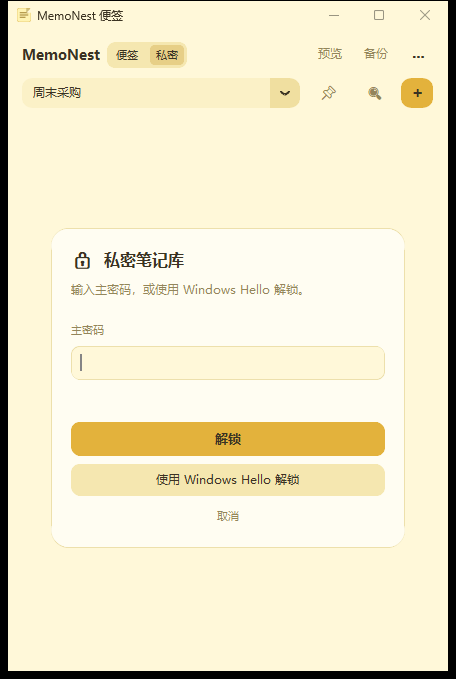
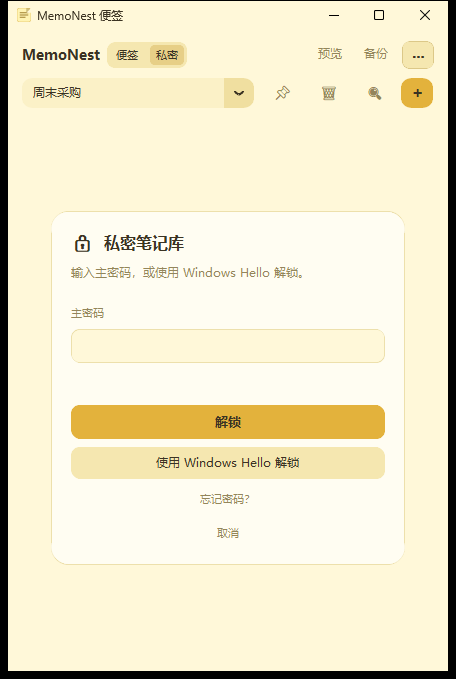
私密库退出即锁定，忘记密码可清空重建

diff --git a/app.py b/app.py
@@ -359,6 +359,21 @@ class MemoApp(ctk.CTk):
             )
             self._vault_hello_btn.pack(fill="x", pady=(8, 0))
 
+        self._vault_forgot_btn = None
+        if mode == "unlock" and self.vault is not None:
+            self._vault_forgot_btn = ctk.CTkButton(
+                inner,
+                text="忘记密码？",
+                height=26,
+                corner_radius=8,
+                fg_color="transparent",
+                hover_color=p["strip"],
+                text_color=p["muted"],
+                font=self.font_tiny,
+                command=self._vault_forgot,
+            )
+            self._vault_forgot_btn.pack(fill="x", pady=(8, 0))
+
         self._vault_cancel_btn = ctk.CTkButton(
             inner,
             text="取消",
@@ -380,6 +395,7 @@ class MemoApp(ctk.CTk):
         for widget in (
             getattr(self, "_vault_primary_btn", None),
             getattr(self, "_vault_hello_btn", None),
+            getattr(self, "_vault_forgot_btn", None),
             getattr(self, "_vault_cancel_btn", None),
         ):
             if widget is not None:
@@ -483,6 +499,42 @@ class MemoApp(ctk.CTk):
             return
         if self._vault_panel is not None:
             self._vault_finish(True)
+
+    def _vault_forgot(self) -> None:
+        """忘记主密码：清空私密库后重新创建（不可恢复）。"""
+        if self._vault_busy or self.vault is None:
+            return
+        if not self.ask_yes_no(
+            "忘记主密码",
+            "重置主密码会永久删除私密库里的全部便签和回收站内容，且无法恢复。\n\n"
+            "普通便签不受影响。确定继续吗？",
+            ok_text="删除并重置",
+        ):
+            return
+        try:
+            self.vault.reset()
+        except Exception as exc:  # pragma: no cover - 取决于文件权限
+            LOG.exception("重置私密笔记库失败")
+            self._vault_fail(f"重置失败：{exc}")
+            return
+        self.vault = None
+        self.vault_store = None
+        self._close_vault_panel()
+        if self.library == "vault":
+            self.store = self.plain_store
+            self.library = "notes"
+            self._after_library_switch()
+        else:
+            self._build_menu()
+        if self._trash_panel is not None:
+            self._trash_panel.reload()
+        self.cfg.set("general.hello_unlock", False)
+        try:
+            self.cfg.save()
+        except OSError:
+            LOG.exception("保存配置失败")
+        self.open_vault_panel("create")
+        self.set_status("私密笔记库已清空，请设置新的主密码")
 
     def _vault_finish(self, ok: bool) -> None:
         intent = self._vault_intent
@@ -604,6 +656,10 @@ class MemoApp(ctk.CTk):
         return True
 
     def _after_library_switch(self, select_id: str | None = None) -> None:
+        if self.library != "vault":
+            # 退出私密库即锁定：内存里的库密钥立刻丢弃，
+            # 下次切到「私密」必须重新输入主密码（或走 Hello）。
+            self._lock_vault_state()
         self.library_tabs.set("私密" if self.library == "vault" else "便签")
         self._build_menu()
         self._apply_library_style()
@@ -664,6 +720,12 @@ class MemoApp(ctk.CTk):
         self._after_library_switch(select_id=target.id)
         self.set_status("已移回普通便签库")
 
+    def _lock_vault_state(self) -> None:
+        """丢弃已解锁状态，不改变当前界面。"""
+        self.vault_store = None
+        if self.vault is not None:
+            self.vault.lock()
+
     def lock_vault(self) -> None:
         if self.vault is None or self._closing:
             return
@@ -676,8 +738,7 @@ class MemoApp(ctk.CTk):
                 LOG.exception("锁定前保存失败")
             self.store = self.plain_store
             self.library = "notes"
-        self.vault_store = None
-        self.vault.lock()
+        self._lock_vault_state()
         if switched:
             self._after_library_switch()
         self.set_status("私密笔记库已锁定")
@@ -1750,7 +1811,9 @@ class MemoApp(ctk.CTk):
 
     def show_help(self) -> None:
         tip = (
-            "· 顶栏「便签 / 私密」切换普通与私密库，Ctrl+L 锁定私密库\n"
+            "· 顶栏「便签 / 私密」切换普通与私密库，Ctrl+L 锁定\n"
+            "· 切回「便签」会立即锁定私密库，下次进入需重新解锁\n"
+            "· 忘记主密码可在解锁面板点「忘记密码？」重置（会清空私密库）\n"
             if self.vault is not None
             else "· 笔记文件位于 data/notes，可直接用其他编辑器编辑\n"
         )

diff --git a/tests/test_vault.py b/tests/test_vault.py
@@ -110,6 +110,25 @@ class VaultTests(unittest.TestCase):
         self.vault.unlock("newpassword")
         self.assertEqual(self.vault.key, first_key)
 
+    def test_reset_clears_vault_and_allows_recreate(self) -> None:
+        self.vault.create("password123")
+        store = VaultStore(self.vault)
+        store.create("保留下来的便签", "内容")
+        doomed = store.create("回收站目标", "待删")
+        store.delete(doomed.id)
+        self.assertTrue(any(self.vault.trash_dir.glob("*.mdenc")))
+
+        self.vault.reset()
+
+        self.assertFalse(self.vault.exists())
+        self.assertFalse(self.vault.unlocked)
+        self.assertEqual(list(self.vault.root.iterdir()), [])
+        # 重置后可以重新创建，旧密码不再有效
+        self.vault.create("newpassword")
+        fresh = VaultStore(self.vault)
+        self.assertEqual(fresh.all_notes(), [])
+        self.assertEqual(fresh.list_trash(), [])
+
     def test_store_crud_and_ciphertext(self) -> None:
         self.vault.create("password123")
         store = VaultStore(self.vault)

diff --git a/core/vault.py b/core/vault.py
@@ -121,6 +121,24 @@ class Vault:
     def lock(self) -> None:
         self.key = None
 
+    def reset(self) -> None:
+        """忘记主密码时彻底清空加密库。
+
+        删除 vault.json（含 Windows Hello 的 DPAPI 绑定）、全部加密笔记与
+        回收站文件，并丢弃内存中的库密钥。此操作不可恢复。
+        """
+        self.key = None
+        if not self.root.exists():
+            return
+        for child in list(self.root.iterdir()):
+            try:
+                if child.is_dir():
+                    shutil.rmtree(child, ignore_errors=True)
+                else:
+                    child.unlink()
+            except OSError:
+                LOG.warning("重置加密库时无法删除 %s", child)
+
     @property
     def unlocked(self) -> bool:
         return self.key is not None

diff --git a/README.md b/README.md
@@ -154,7 +154,8 @@ git push origin v1.0.0
 └────────────────────────────────────────────┘
 ```
 
-- **便签 / 私密**：顶栏分段按钮切换普通库与私密库；切到私密时才要求解锁
+- **便签 / 私密**：顶栏分段按钮切换普通库与私密库；切到私密时才要求解锁，
+  从私密切回「便签」会立即锁定
 - **📌 / 🗑 / 🔍 / +**：放在便签下拉框右侧——📌 置顶当前便签（再点取消），
   🗑 删除当前便签（进回收站），🔍 展开搜索（再点或 Esc 收起），`+` 新建
 - **预览 / 备份**：常用操作放在顶栏，一眼可见
@@ -180,7 +181,7 @@ git push origin v1.0.0
 | 窗口置顶 | 「设置 → 通用」勾选「窗口始终置顶」 |
 | 切到私密库 | 顶栏「私密」，输入主密码或 Windows Hello |
 | 移入 / 移出私密库 | `⋯` 菜单 → 移到私密笔记库 / 移回普通便签 |
-| 锁定私密库 | `Ctrl+L`，退出程序时也会自动锁定 |
+| 锁定私密库 | `Ctrl+L`，切回「便签」或关闭程序时也会自动锁定 |
 | 设置 | `⋯` 菜单 → 设置，或 `Ctrl+,` |
 
 ## 数据与目录
@@ -292,9 +293,12 @@ git push origin v1.0.0
 2. 在普通便签里打开 `⋯` 菜单 →「移到私密笔记库」
 3. 再次切到「私密」时，在同一个窗口里输入主密码或点「使用 Windows Hello 解锁」
 4. 想移出来：私密库中 `⋯` →「移回普通便签」
-5. `Ctrl+L` 立即锁定；关闭程序时也会自动锁定
+5. `Ctrl+L` 立即锁定；从「私密」切回「便签」时也会立即锁定，
+   下次进入必须重新输入主密码（或再走一次 Windows Hello）
+6. 忘记主密码：在解锁面板点「忘记密码？」，确认后会删除私密库的全部内容
+   （便签、回收站与 Hello 绑定），随后可立即设置新密码
 
-私密库的所有交互（创建、解锁、改主密码、Hello 验证）都覆盖在主窗口正文区，
+私密库的所有交互（创建、解锁、改主密码、忘记密码重置、Hello 验证）都覆盖在主窗口正文区，
 **不会弹出额外窗口**；顶栏的「便签 / 私密」始终保留，随时可以点「便签」收起面板。
 
 实现要点：
@@ -310,7 +314,8 @@ git push origin v1.0.0
 - 云端与 GitHub 只上传 `.mdenc` 和去掉 `dpapi_key` 的 `vault.json`；
   没有主密码无法还原内容
 
-> 主密码无法找回。忘记主密码只能删除 `data/vault/` 重新开始（会丢失私密便签）。
+> 主密码无法找回。解锁面板的「忘记密码？」会先删除私密库里的**全部**便签与回收站内容，
+> 再让你设置新主密码；普通便签不受影响，但删除的私密内容无法恢复。
 
 ## GitHub 同步
 
@@ -406,8 +411,8 @@ zip 备份、OneDrive 镜像、GitHub 推送（本地 bare 仓库），以及私
 私密库中的便签必须在程序里解锁后编辑（磁盘上只有 `.mdenc` 密文）。
 
 **忘记主密码了？**
-无法恢复。私密便签的密钥由主密码包裹，只能删除 `data/vault/` 重新创建
-（普通便签不受影响）。
+无法恢复。在解锁面板点「忘记密码？」，确认后会删除私密库的全部内容
+（便签、回收站与 Hello 绑定），然后直接设置新主密码；普通便签不受影响。
 
 ## 许可
 
